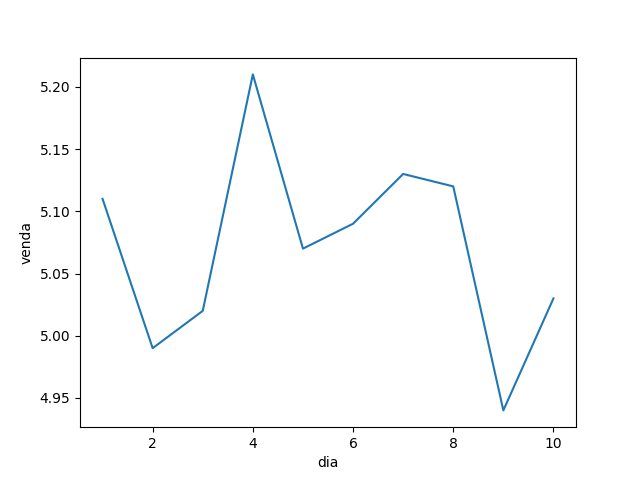
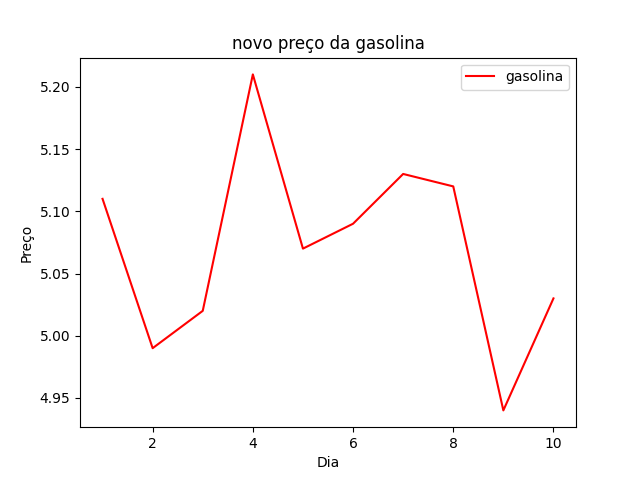
adicionando novo gráfico

diff --git a/gasolina.py b/gasolina.py
@@ -1,9 +1,14 @@
-
 import seaborn as sns
 import pandas as pd
 import matplotlib.pyplot as plt
 
+
 df = pd.read_csv('gasolina.csv')
 df.head()
-sns.lineplot(data=df, x='dia', y='venda')
+sns.lineplot(data=df, x='dia', y='venda',color='red')
+plt.title('novo preço da gasolina')
+plt.legend(['gasolina'])
+plt.xlabel('Dia')
+plt.ylabel('Preço')
 plt.savefig('gasolina.png')
+ 
